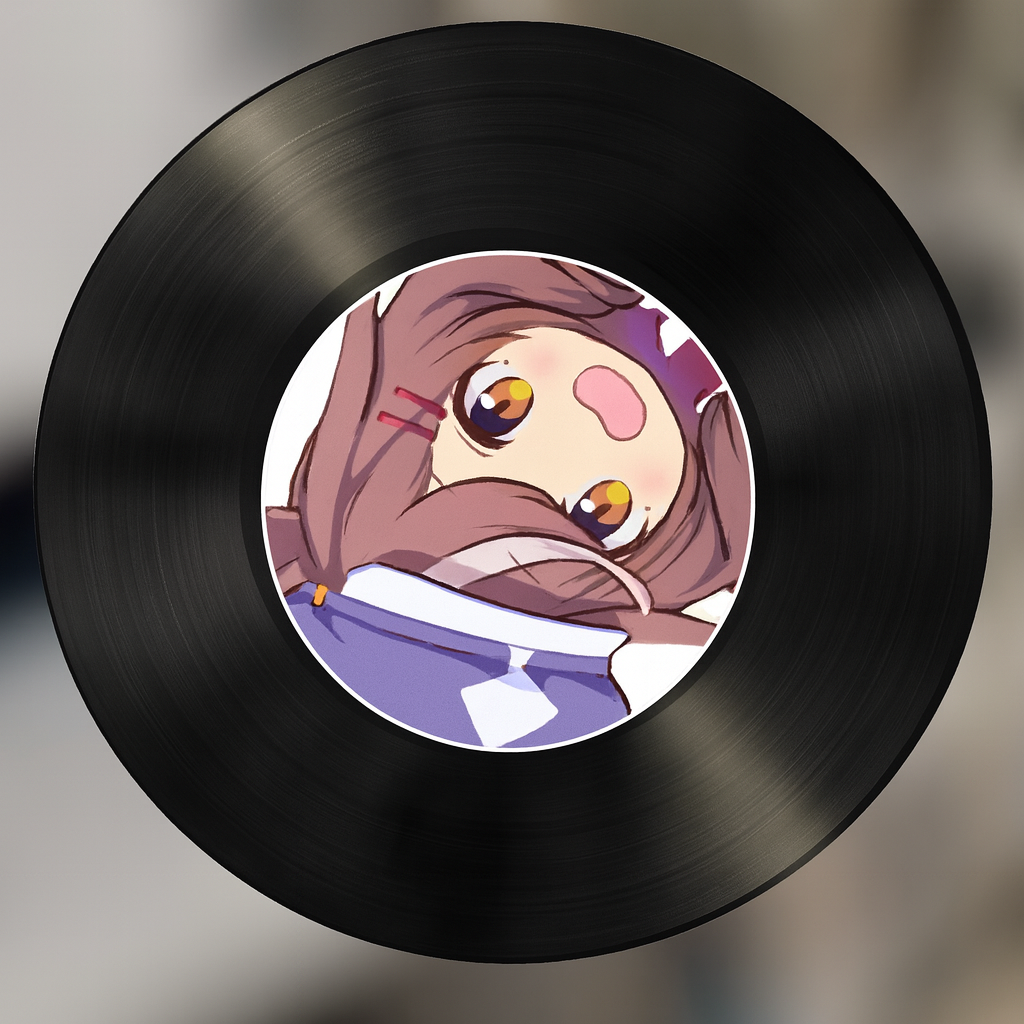
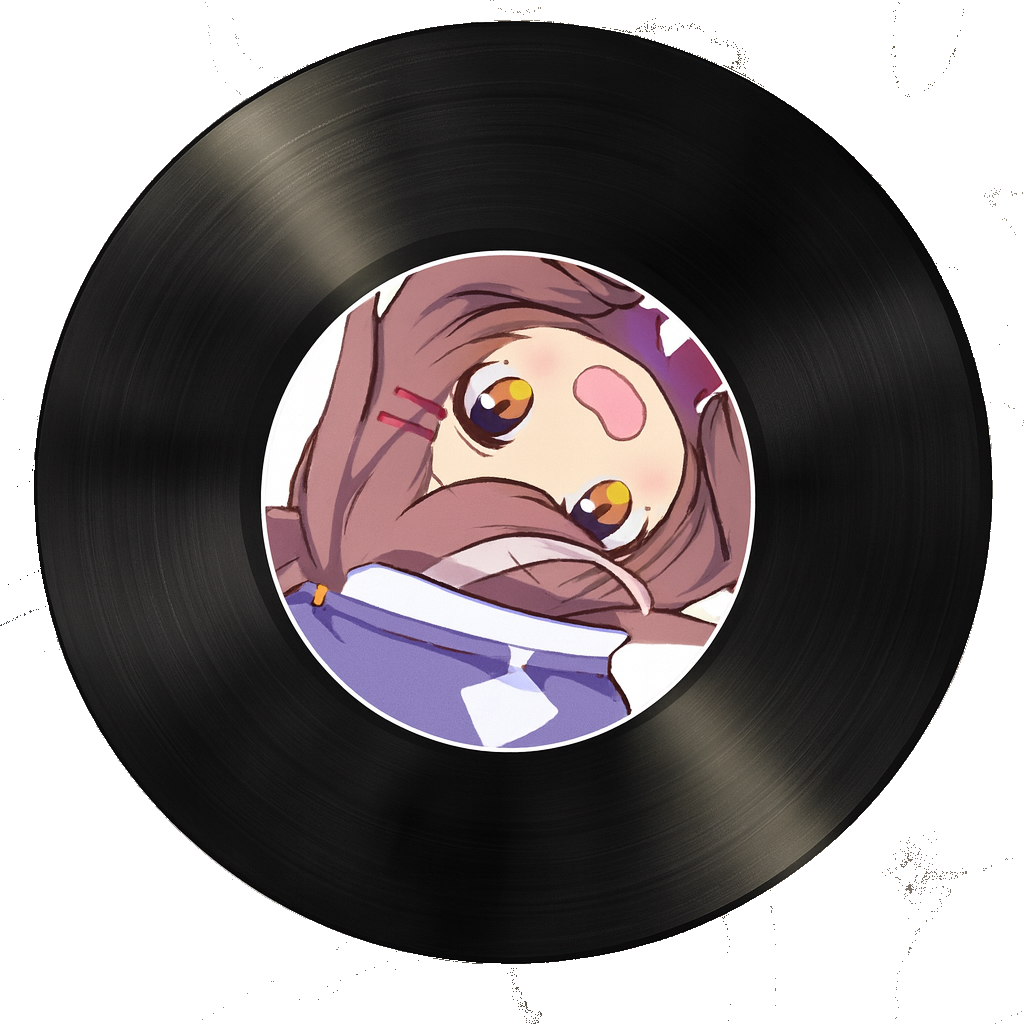
Added a spinning image + fixed picture weirdness

diff --git a/src/style.css b/src/style.css
@@ -10,7 +10,7 @@ body {
 
 /* Card */
 .game-container {
-  background: rgba(0, 0, 0, 0.55);
+  background: rgba(246, 232, 232, 0.55);
   width: min(720px, 92vw);
   margin: 8vh auto;
   padding: 28px 22px 32px;
@@ -22,26 +22,42 @@ body {
 .record-btn {
   border: none;
   background: transparent;
-  padding: 0;
+  padding: 10;
   cursor: pointer;
   display: inline-block;
   margin: 14px 0 10px;
 }
 
+@keyframes spin {
+  to {
+    transform: rotate(360deg);
+  }
+}
+
 .record-btn img {
-  width: 180px; /* adjust as you like */
-  height: 180px; /* square as requested */
-  object-fit: cover; /* keep it perfectly square without distortion */
-  border-radius: 12px; /* 0 for sharp corners; 50% for circle */
+  width: 300px;
+  height: 300px;
+  object-fit: cover;
+  border-radius: 50%;
+  animation: spin 15s linear infinite;
+  transform-origin: center;
   box-shadow: 0 6px 18px rgba(0, 0, 0, 0.35);
-  transition: transform 90ms ease, filter 150ms ease;
+
+  /* this line clips any leftover white border */
+  mask-image: radial-gradient(circle at center, black 98%, transparent 100%);
+  -webkit-mask-image: radial-gradient(
+    circle at center,
+    black 98%,
+    transparent 100%
+  );
 }
 
 .record-btn:hover img {
-  transform: scale(1.04);
+  transform: none;
+  filter: brightness(1.05);
 }
+
 .record-btn:active img {
-  transform: scale(0.98);
   filter: brightness(0.9);
 }
 
